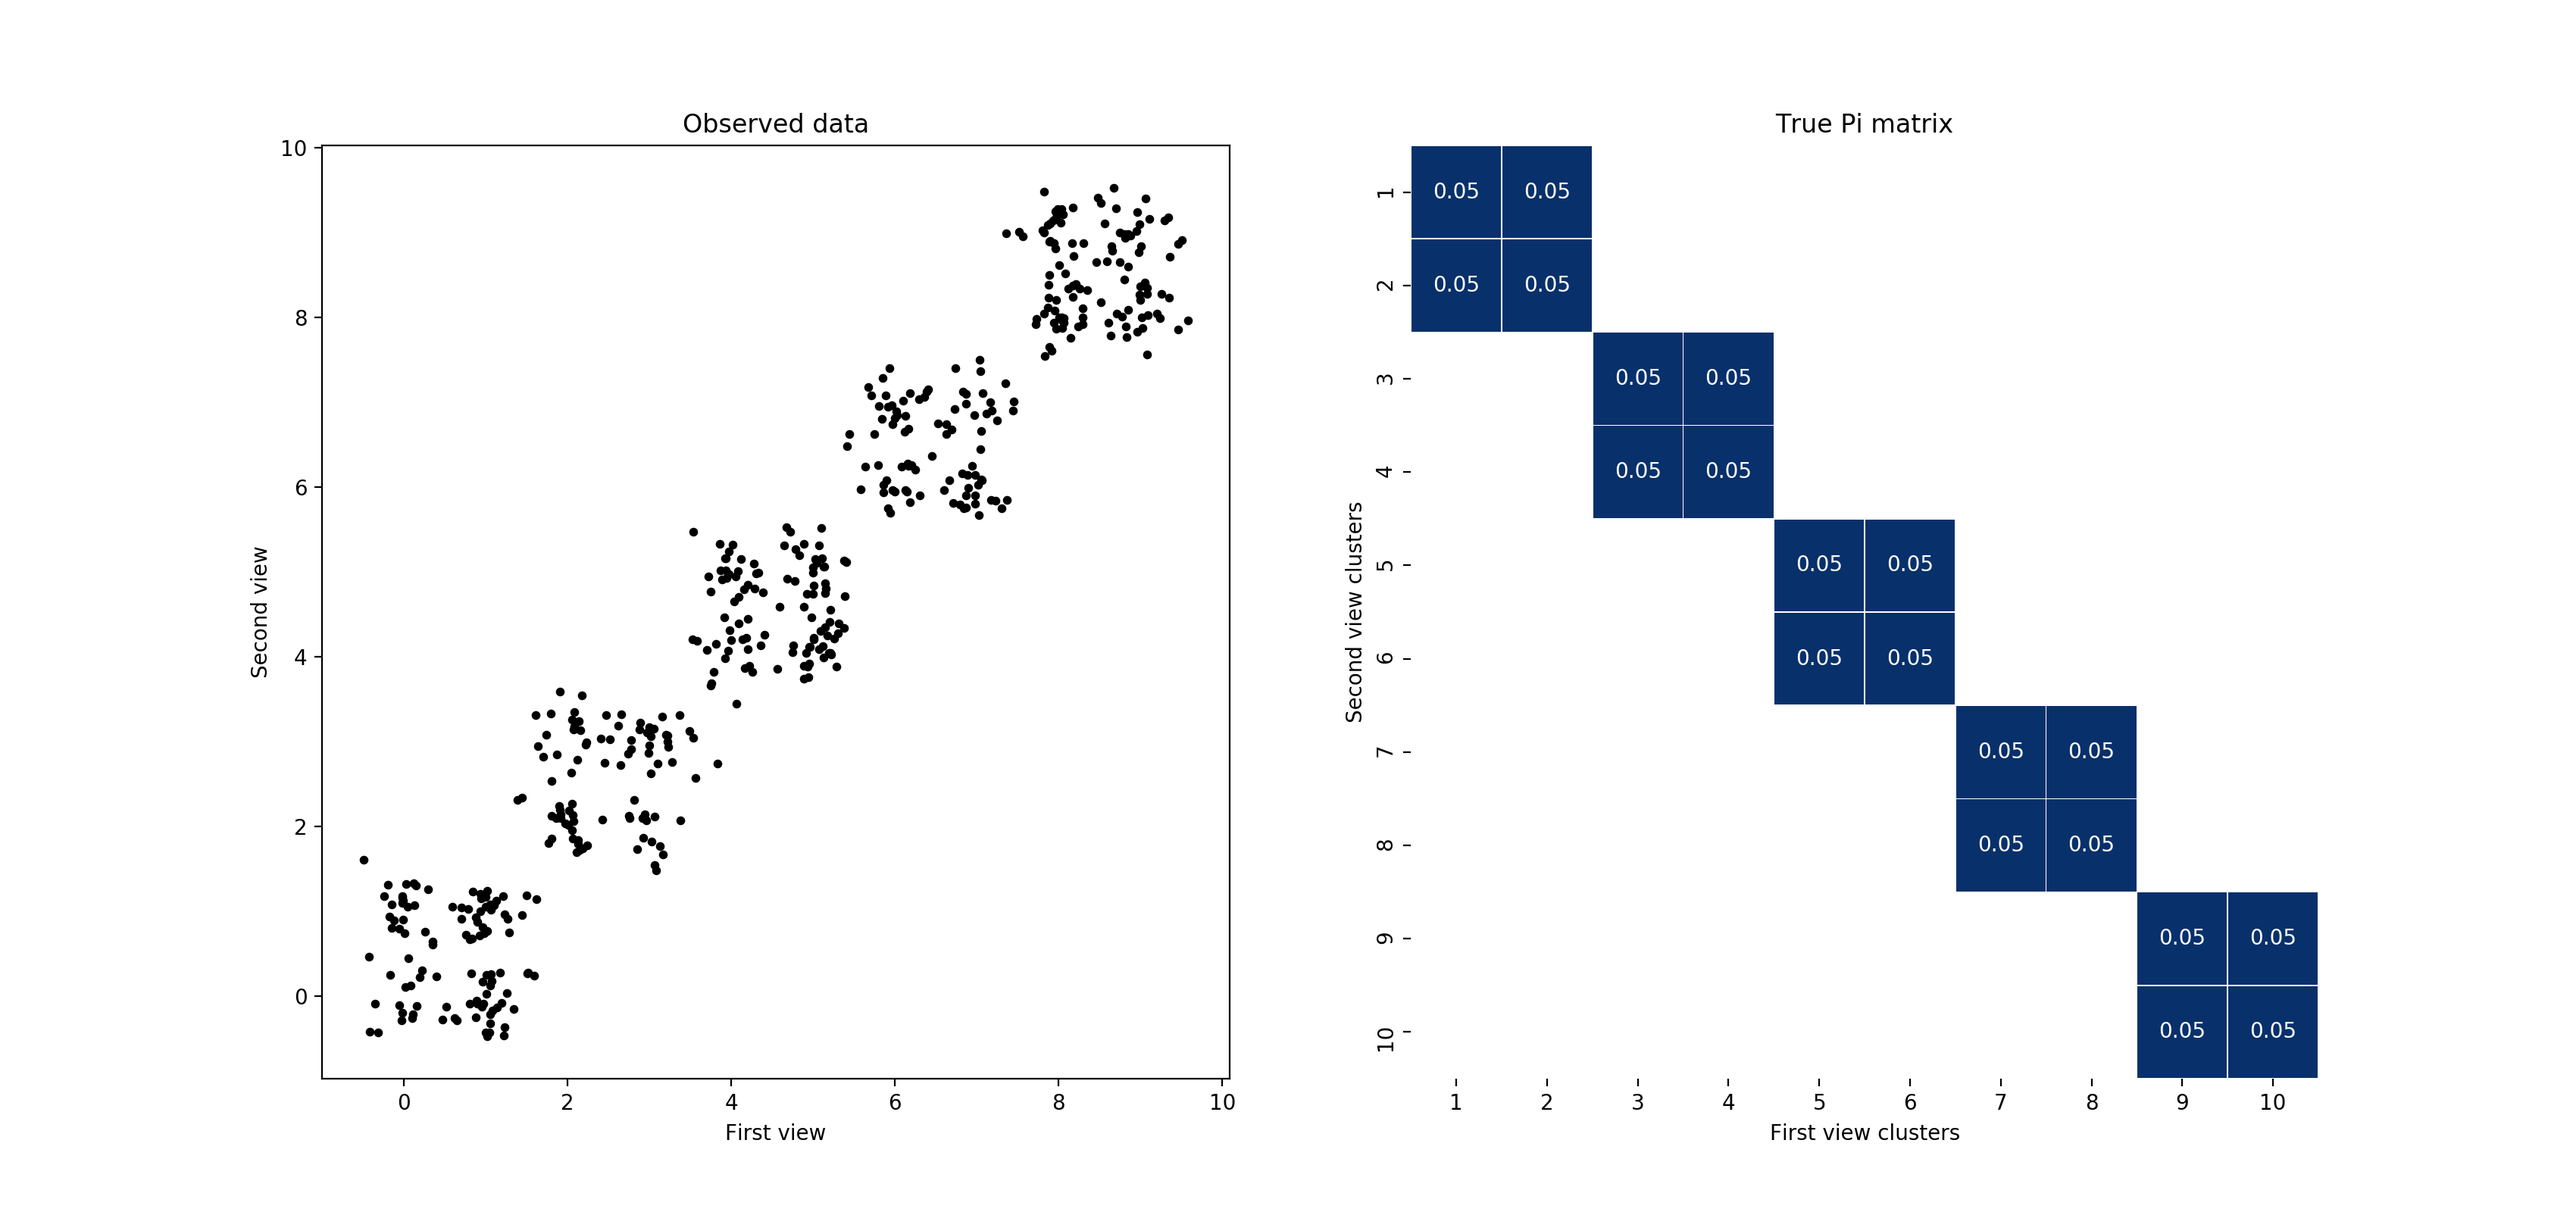
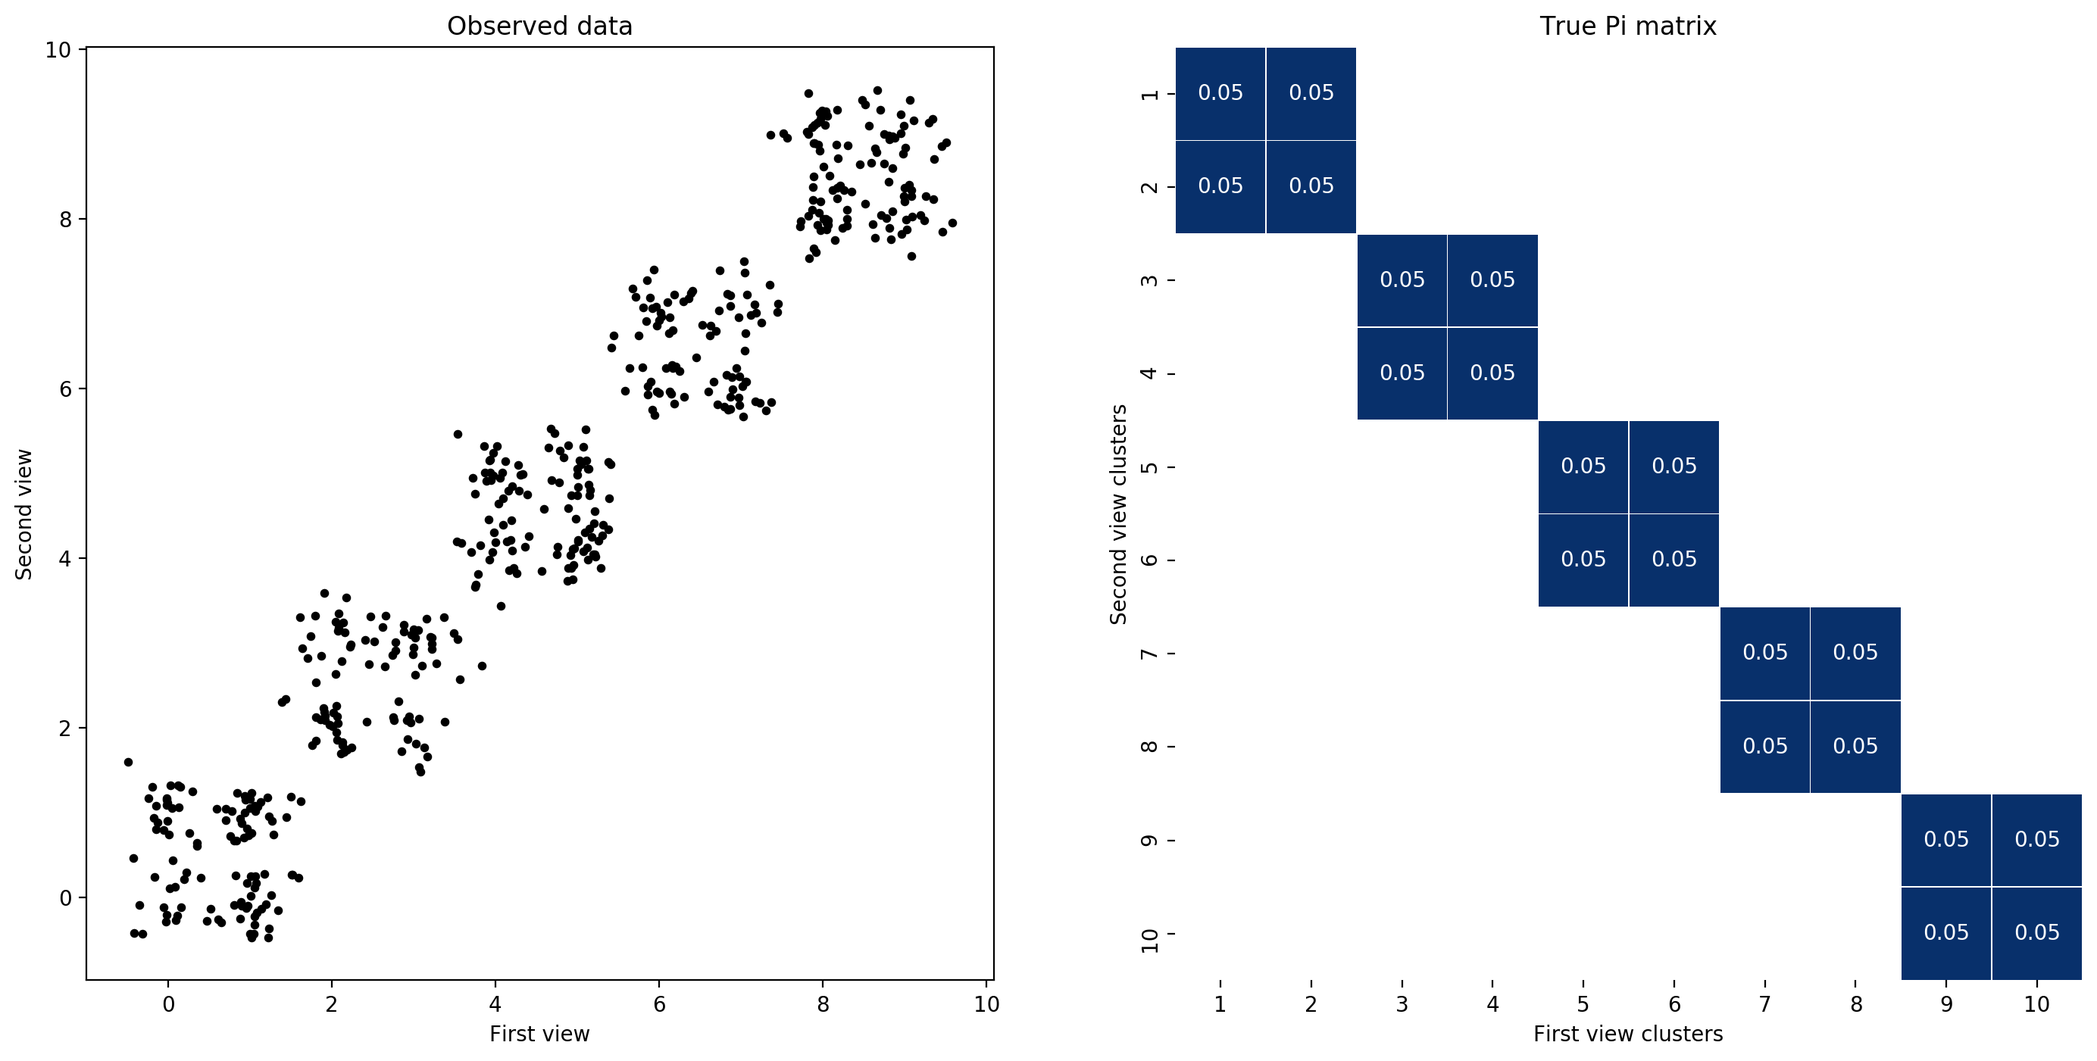
up

diff --git a/doc/figures/readme_example.py b/doc/figures/readme_example.py
@@ -76,9 +76,9 @@ D_est = mvmm.final_.bd_weights_
 bd_summary, D_est_bd_perm = community_summary(D_est,
                                               zero_thresh=mvmm.final_.zero_thresh)
 # Estimated D matrix
-plt.figure(figsize=(8, 8))
+plt.figure(figsize=(4, 4))
 sns.heatmap(D_est_bd_perm.T,  # transpose so the first view is on the rows
-            annot=True, cmap='Blues', vmin=0, linewidths=.2, cbar=False,
+            annot=False, cmap='Blues', vmin=0, linewidths=.2, cbar=True,
             mask=D_est_bd_perm.T == 0)
 plt.xlabel("First view clusters")
 plt.ylabel("Second view clusters")
